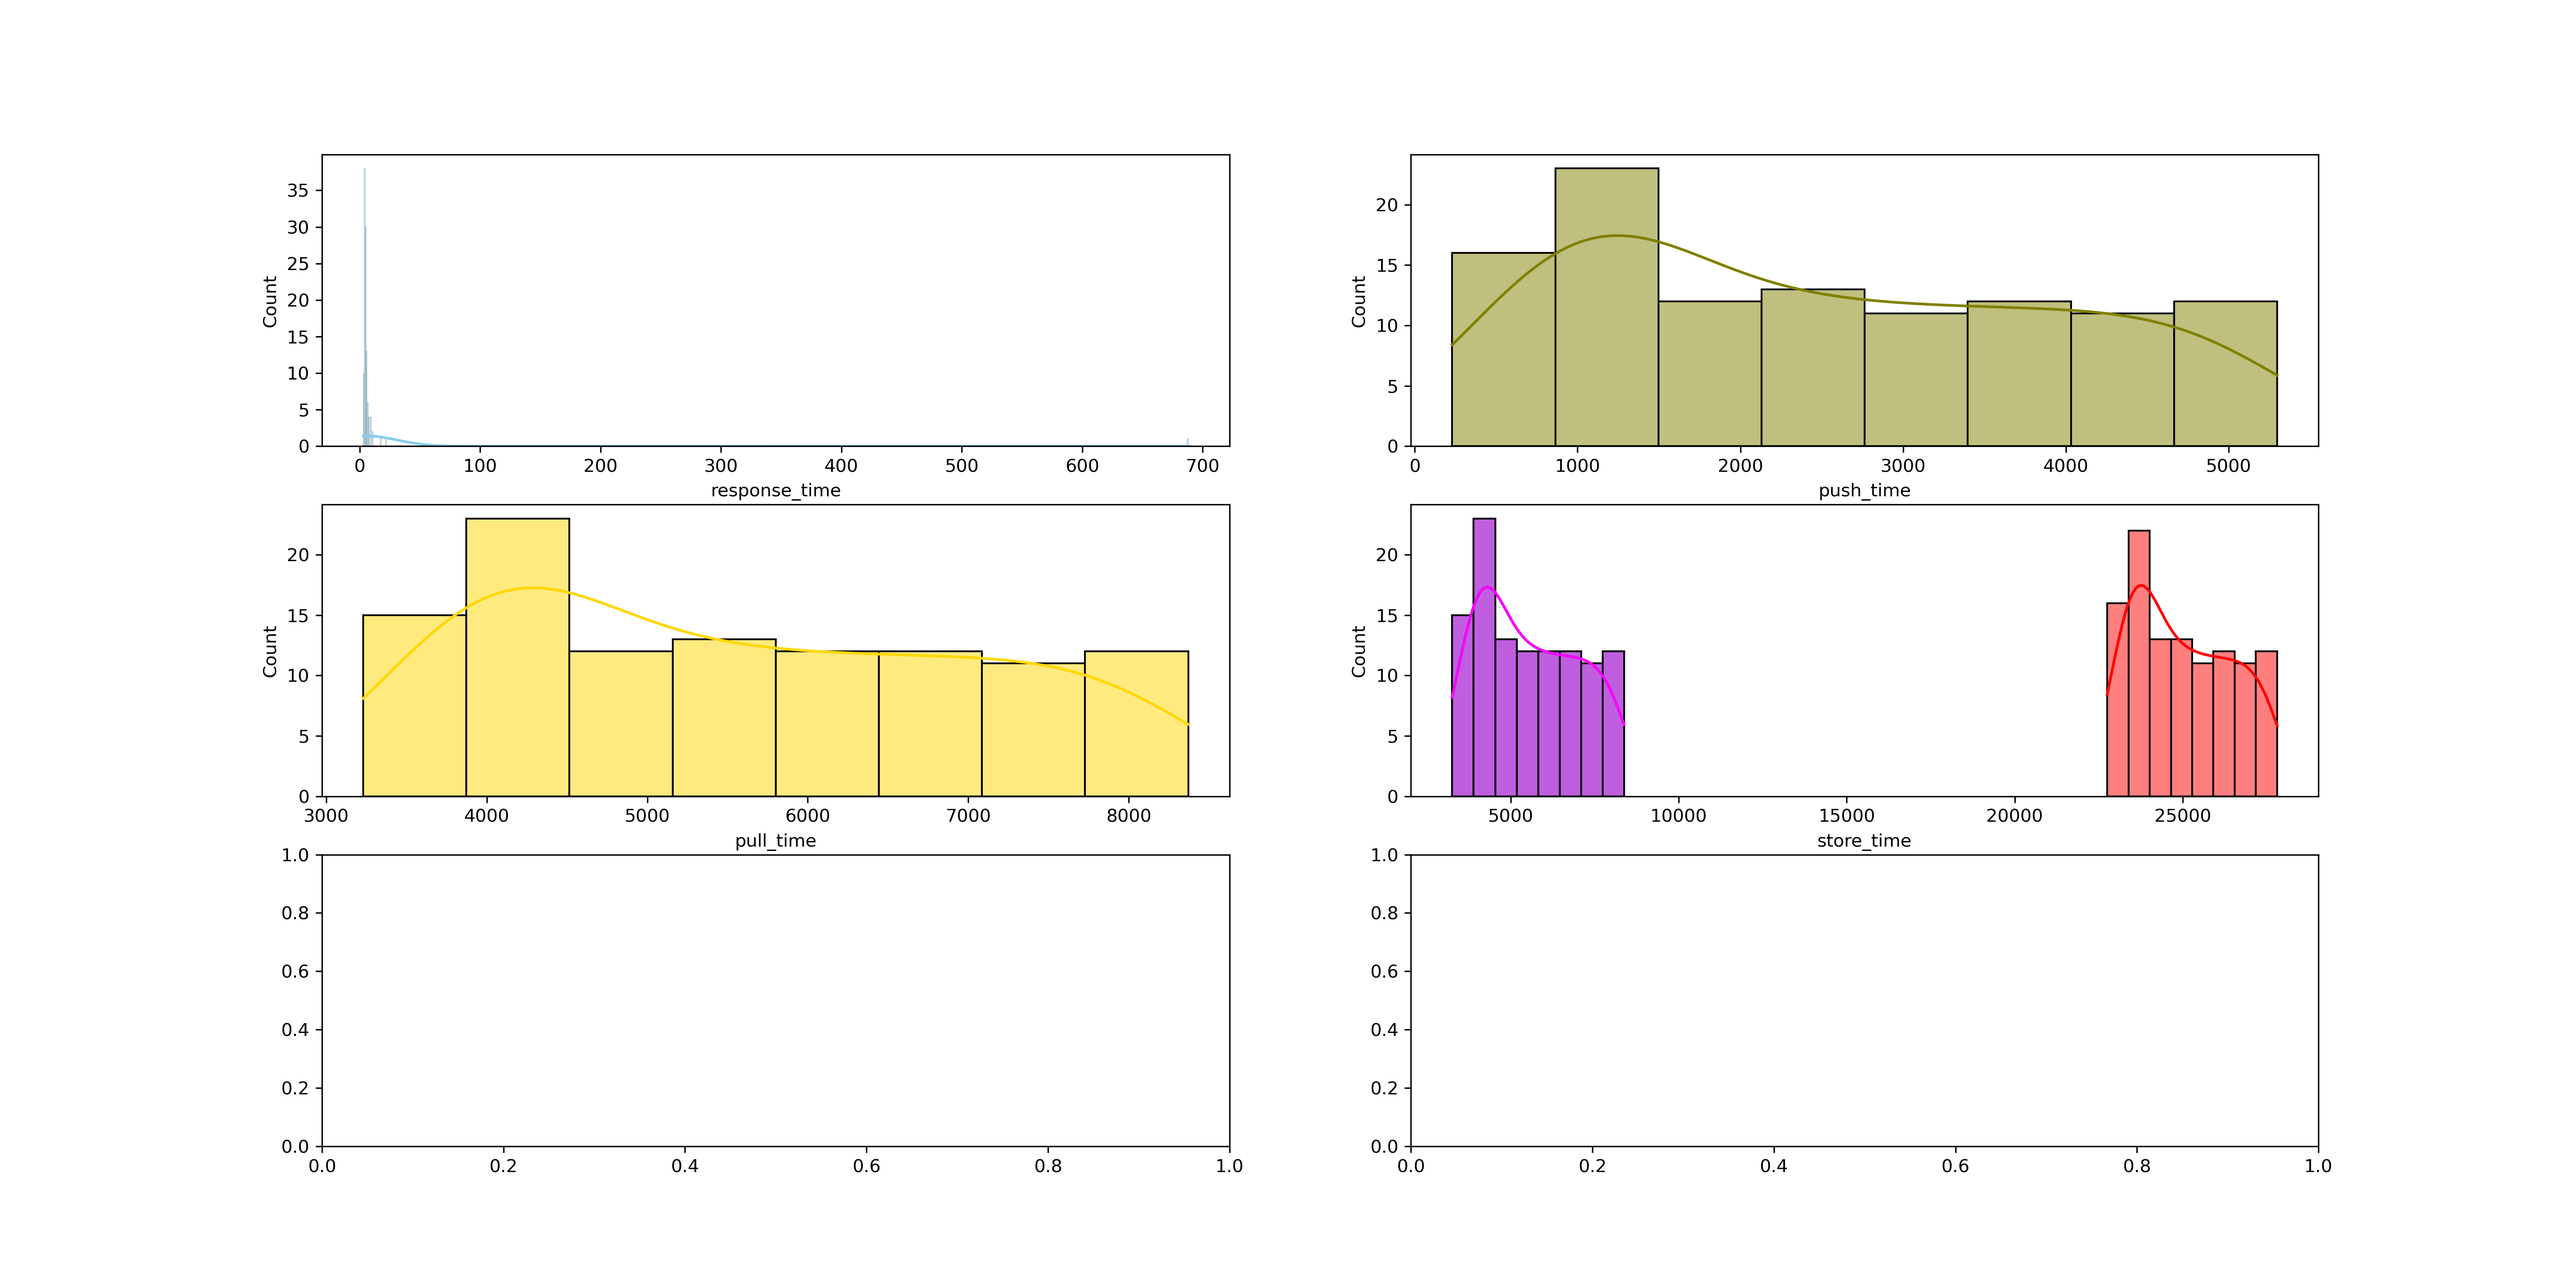
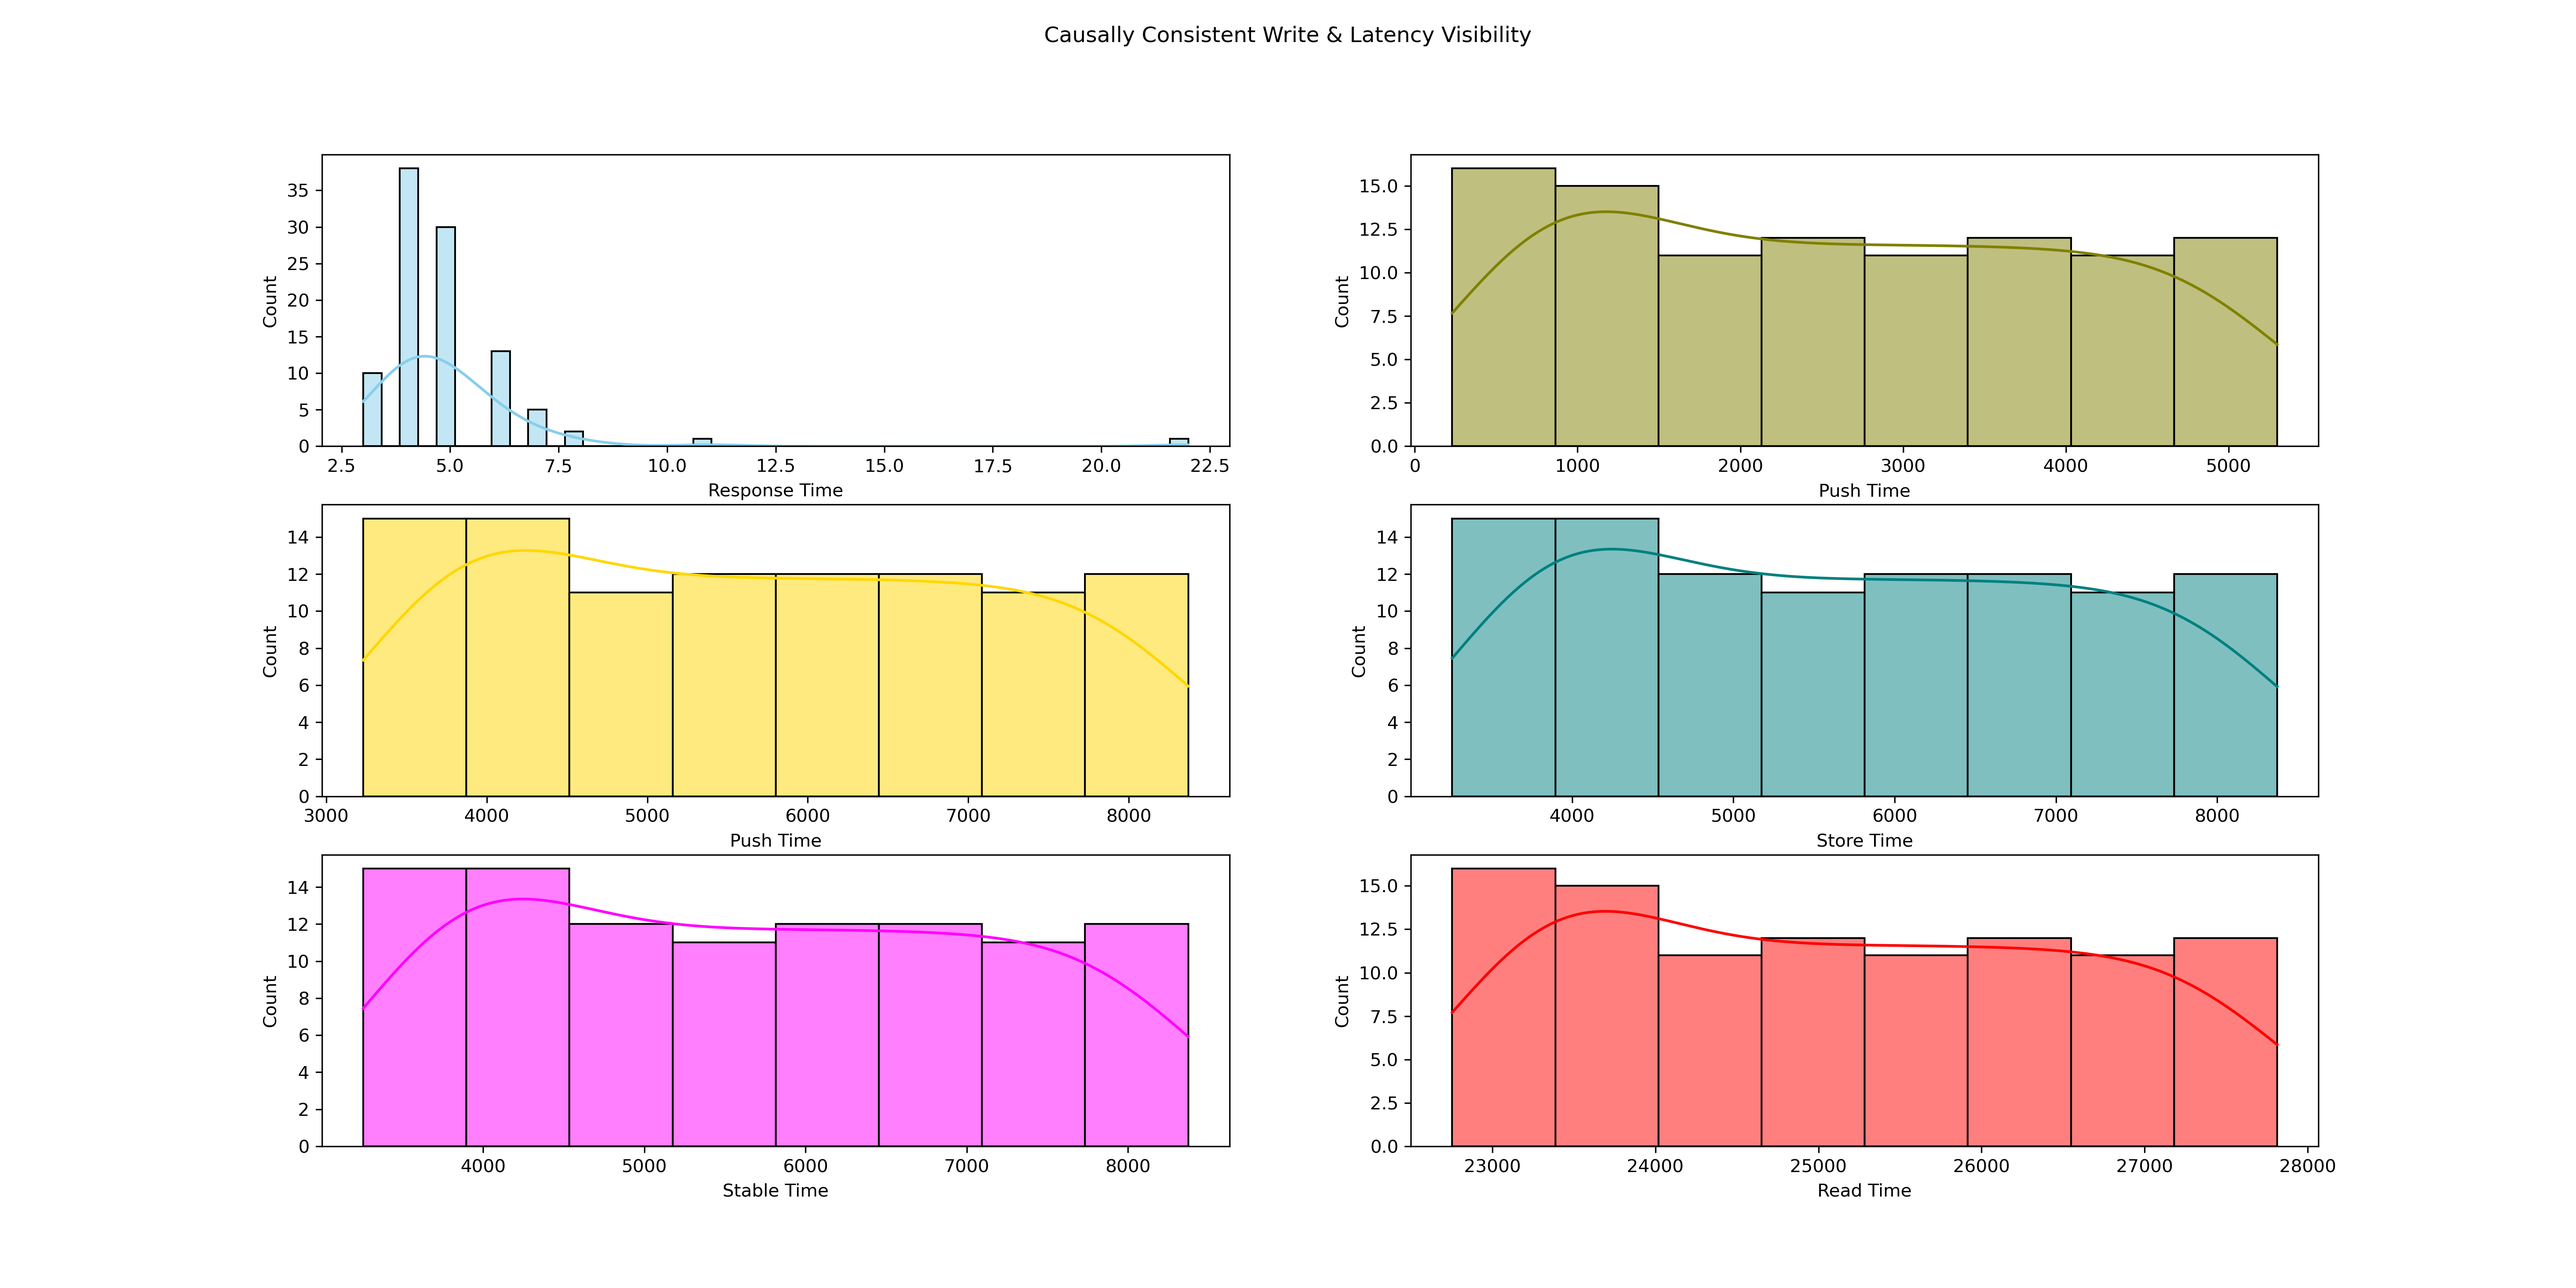
Fix visibility histograms

diff --git a/validation/visibility_validation.py b/validation/visibility_validation.py
@@ -79,7 +79,7 @@ def ev_visibility_times(iteration_dir):
             'read_client_response': read_time_us,
             }, ignore_index=True)
 
-    return pd_result_eu, pd_result_us
+    return pd_result_eu.tail(100), pd_result_us.tail(100)
 
 def cc_visibility_times(iteration_dir):
     write_client_df = get_data(LOGS_DIR + '/' + iteration_dir, 'writeclient-eu-west-1')
@@ -148,7 +148,7 @@ def cc_visibility_times(iteration_dir):
             'read_client_response': read_time_us,
             }, ignore_index=True)
 
-    return pd_result_eu, pd_result_us
+    return pd_result_eu.tail(100), pd_result_us.tail(100)
 
 def get_table(df, title, filename):
     df = df.round(2)
@@ -281,10 +281,22 @@ def visibility_histogram(df_ev_eu, df_cc_eu, df_ev_us, df_cc_us):
     fig, axs = plt.subplots(2, 2, figsize=(10, 15))
 
     sns.histplot(data=df_ev_eu, x="read_time", kde=True, color="skyblue", ax=axs[0, 0])
+    axs[0,0].set_title('Eventually Consistent EU')
+    axs[0,0].set_xlabel('Read Time')
+    
     sns.histplot(data=df_ev_us, x="read_time", kde=True, color="olive", ax=axs[0, 1])
+    axs[0,1].set_title('Eventually Consistent US')
+    axs[0,1].set_xlabel('Read Time')
+    
     sns.histplot(data=df_cc_eu, x="read_time", kde=True, color="gold", ax=axs[1, 0])
-    sns.histplot(data=df_cc_us, x="read_time", kde=True, color="teal", ax=axs[1, 1])
+    axs[1,0].set_title('Causally Consistent EU')
+    axs[1,0].set_xlabel('Read Time')
 
+    sns.histplot(data=df_cc_us, x="read_time", kde=True, color="teal", ax=axs[1, 1])
+    axs[1,1].set_title('Causally Consistent US')
+    axs[1,1].set_xlabel('Read Time')
+
+    plt.suptitle('Visibility Distribution')
     plt.savefig(PATH + '/results/plots/visibility_histogram.png', dpi=300)
     plt.clf()
     plt.rcParams['figure.figsize'] = plt.rcParamsDefault['figure.figsize']
@@ -293,12 +305,24 @@ def visibility_histogram_cc(df_cc_eu, df_cc_us):
     fig, axs = plt.subplots(3, 2, figsize=(20, 10))
 
     sns.histplot(data=df_cc_eu, x="response_time", kde=True, color="skyblue", ax=axs[0, 0])
-    sns.histplot(data=df_cc_eu, x="push_time", kde=True, color="olive", ax=axs[0, 1])
-    sns.histplot(data=df_cc_eu, x="pull_time", kde=True, color="gold", ax=axs[1, 0])
-    sns.histplot(data=df_cc_eu, x="store_time", kde=True, color="teal", ax=axs[1, 1])
-    sns.histplot(data=df_cc_eu, x="stable_time", kde=True, color="magenta", ax=axs[1, 1])
-    sns.histplot(data=df_cc_us, x="read_time", kde=True, color="red", ax=axs[1, 1])
+    axs[0,0].set_xlabel('Response Time')
 
+    sns.histplot(data=df_cc_eu, x="push_time", kde=True, color="olive", ax=axs[0,1])
+    axs[0,1].set_xlabel('Push Time')
+
+    sns.histplot(data=df_cc_eu, x="pull_time", kde=True, color="gold", ax=axs[1, 0])
+    axs[1,0].set_xlabel('Push Time')
+
+    sns.histplot(data=df_cc_eu, x="store_time", kde=True, color="teal", ax=axs[1, 1])
+    axs[1,1].set_xlabel('Store Time')
+
+    sns.histplot(data=df_cc_eu, x="stable_time", kde=True, color="magenta", ax=axs[2, 0])
+    axs[2,0].set_xlabel('Stable Time')
+
+    sns.histplot(data=df_cc_us, x="read_time", kde=True, color="red", ax=axs[2, 1])
+    axs[2,1].set_xlabel('Read Time')
+
+    plt.suptitle('Causally Consistent Write & Latency Visibility')
     plt.savefig(PATH + '/results/plots/visibility_cc_histogram.png', dpi=300)
     plt.clf()
     plt.rcParams['figure.figsize'] = plt.rcParamsDefault['figure.figsize']

diff --git a/validation/validation.py b/validation/validation.py
@@ -43,9 +43,6 @@ def visibility_validation(path_ev, path_cc):
     # Boxplotwith the time it takes for a write to be stable
     stable_time_boxplot(df_cc_diff_eu,df_cc_diff_us)
 
-    # TODO: Duration of each phase
-
-
     # Distribution of the visibility times (comparison between eu and west for eventual and causal)
     visibility_histogram(df_ev_diff_eu, df_cc_diff_eu, df_ev_diff_us, df_cc_diff_us)
 
